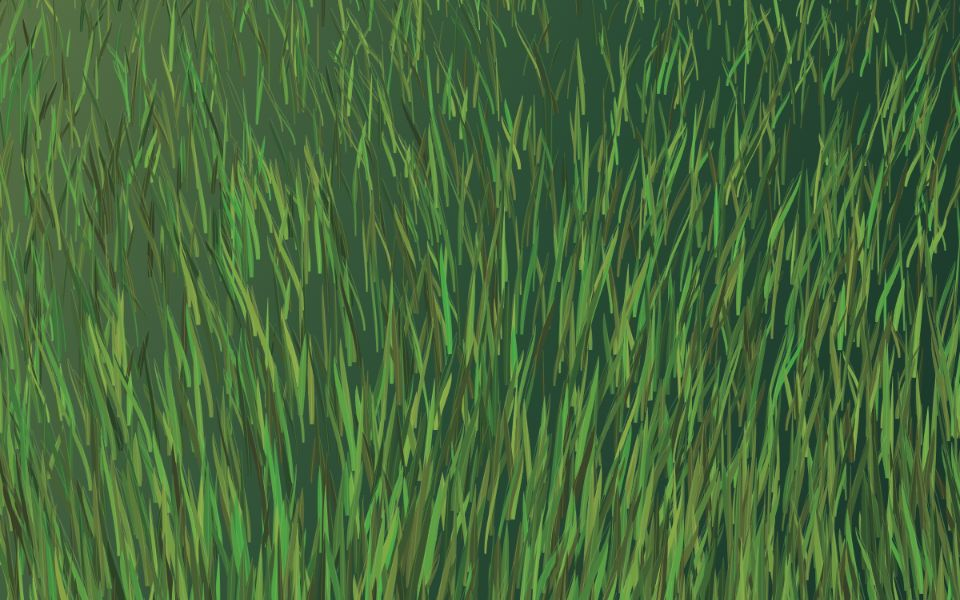
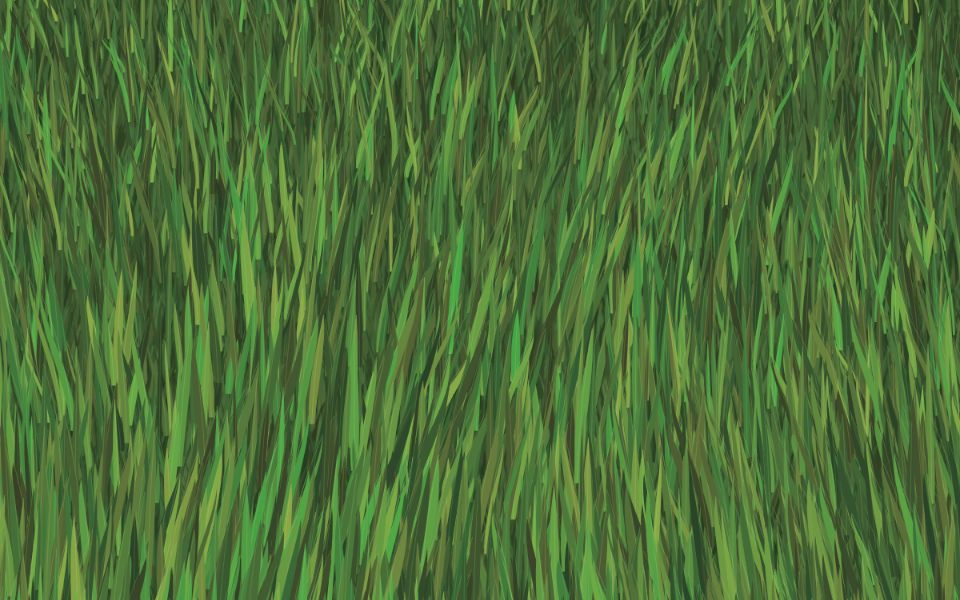
Add cached undergrowth and fuller grass blades

diff --git a/sway.js b/sway.js
@@ -5,6 +5,7 @@ const canvas=document.querySelector('#grass'),ctx=canvas.getContext('2d');
 if(!ctx)return;
 const reduced=matchMedia('(prefers-reduced-motion: reduce)');
 let w,h,blades=[],background,last=0,frame=0,time=0;
+const undergrowth=document.createElement('canvas'),ground=undergrowth.getContext('2d');
 const pointers=new Map();
 let seed=41;
 function random(){seed=(seed*1664525+1013904223)>>>0;return seed/4294967296;}
@@ -12,17 +13,25 @@ function resize(){
  w=canvas.clientWidth;h=canvas.clientHeight;
  const scale=Math.min(devicePixelRatio||1,1.5);canvas.width=Math.round(w*scale);canvas.height=Math.round(h*scale);ctx.setTransform(scale,0,0,scale,0,0);
  background=ctx.createLinearGradient(0,0,w,h);background.addColorStop(0,'#617849');background.addColorStop(.45,'#284c35');background.addColorStop(1,'#112b24');
+ // Cache a dense, still undergrowth once per resize, at CSS-pixel resolution.
+ undergrowth.width=Math.ceil(w);undergrowth.height=Math.ceil(h);
+ ground.fillStyle=background;ground.fillRect(0,0,w,h);seed=173;
+ for(let y=0;y<h+100;y+=8)for(let x=-30;x<w+30;x+=5){
+  const bx=x+random()*12,by=y+random()*12,len=30+random()*65,tip=bx+(random()-.5)*35,half=2+random()*2;
+  ground.beginPath();ground.moveTo(bx-half,by);ground.quadraticCurveTo(bx-half,by-len*.55,tip,by-len);ground.quadraticCurveTo(bx+half,by-len*.45,bx+half,by);ground.closePath();
+  ground.fillStyle=`hsl(${85+random()*30} 30% ${17+random()*18}%)`;ground.fill();
+ }
  seed=41;blades=[];
  const count=Math.min(4200,Math.max(1500,Math.round(w*h/220)));
  for(let i=0;i<count;i++){
   const y=random()*(h+170),depth=.35+.65*Math.min(1,y/h),x=random()*(w+100)-50;
   const light=random(),hue=78+random()*40;
-  blades.push({x,y,len:(55+random()*95)*depth,width:(2+random()*4)*depth,lean:(random()-.5)*36,phase:random()*6.28,shade:`hsl(${hue} ${25+light*17}% ${20+light*27}%)`,edge:`hsla(${hue-8} 44% ${48+light*20}% / .45)`,bend:0,velocity:0});
+  blades.push({x,y,len:(68+random()*114)*depth,width:(2.6+random()*5.2)*depth,lean:(random()-.5)*36,phase:random()*6.28,shade:`hsl(${hue} ${25+light*17}% ${20+light*27}%)`,edge:`hsla(${hue-8} 44% ${48+light*20}% / .45)`,bend:0,velocity:0});
  }
  blades.sort((a,b)=>a.y-b.y);pointers.clear();draw(0);
 }
 function draw(dt){
- ctx.fillStyle=background;ctx.fillRect(0,0,w,h);
+ ctx.drawImage(undergrowth,0,0,w,h);
  for(const b of blades){
   b.velocity+=(-b.bend*28-b.velocity*7)*dt;b.bend+=b.velocity*dt;
   const breeze=reduced.matches?0:(Math.sin(time*.8+b.x*.006+b.y*.004)+.45*Math.sin(time*1.3+b.phase))*b.len*.15;

diff --git a/sway.html b/sway.html
@@ -1,2 +1,2 @@
 <!doctype html>
-<html lang="ja"><head><meta charset="utf-8"><meta name="viewport" content="width=device-width, initial-scale=1"><meta name="theme-color" content="#19382b"><title>Sway — touching things</title><link rel="stylesheet" href="sway.css"><script src="sway.js" defer></script></head><body><main><canvas id="grass" tabindex="0" role="button" aria-label="草原。マウスや指で撫でると草がしなります。矢印キーでも風を送れます。"></canvas><header><a href="./">TOUCHING THINGS</a><span>04 / Sway</span></header><div class="intro"><h1>Sway</h1><p>風を、なでる。</p></div><noscript>JavaScriptを有効にすると草がそよぎます。</noscript></main></body></html>
+<html lang="ja"><head><meta charset="utf-8"><meta name="viewport" content="width=device-width, initial-scale=1"><meta name="theme-color" content="#19382b"><title>Sway — touching things</title><link rel="stylesheet" href="sway.css"><script src="sway.js?v=2" defer></script></head><body><main><canvas id="grass" tabindex="0" role="button" aria-label="草原。マウスや指で撫でると草がしなります。矢印キーでも風を送れます。"></canvas><header><a href="./">TOUCHING THINGS</a><span>04 / Sway</span></header><div class="intro"><h1>Sway</h1><p>風を、なでる。</p></div><noscript>JavaScriptを有効にすると草がそよぎます。</noscript></main></body></html>
